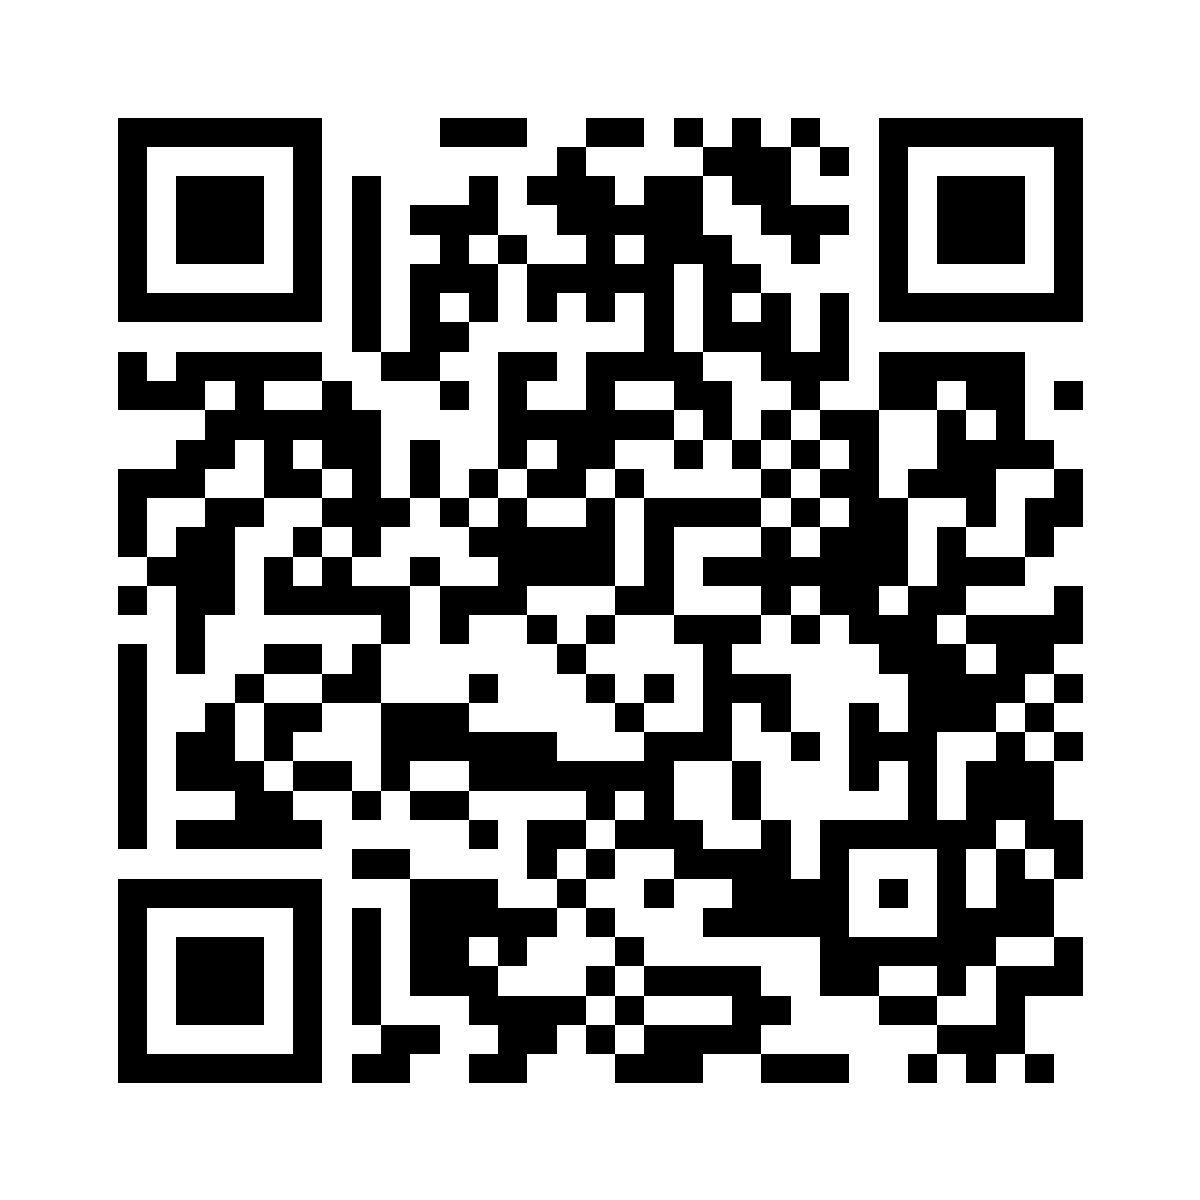
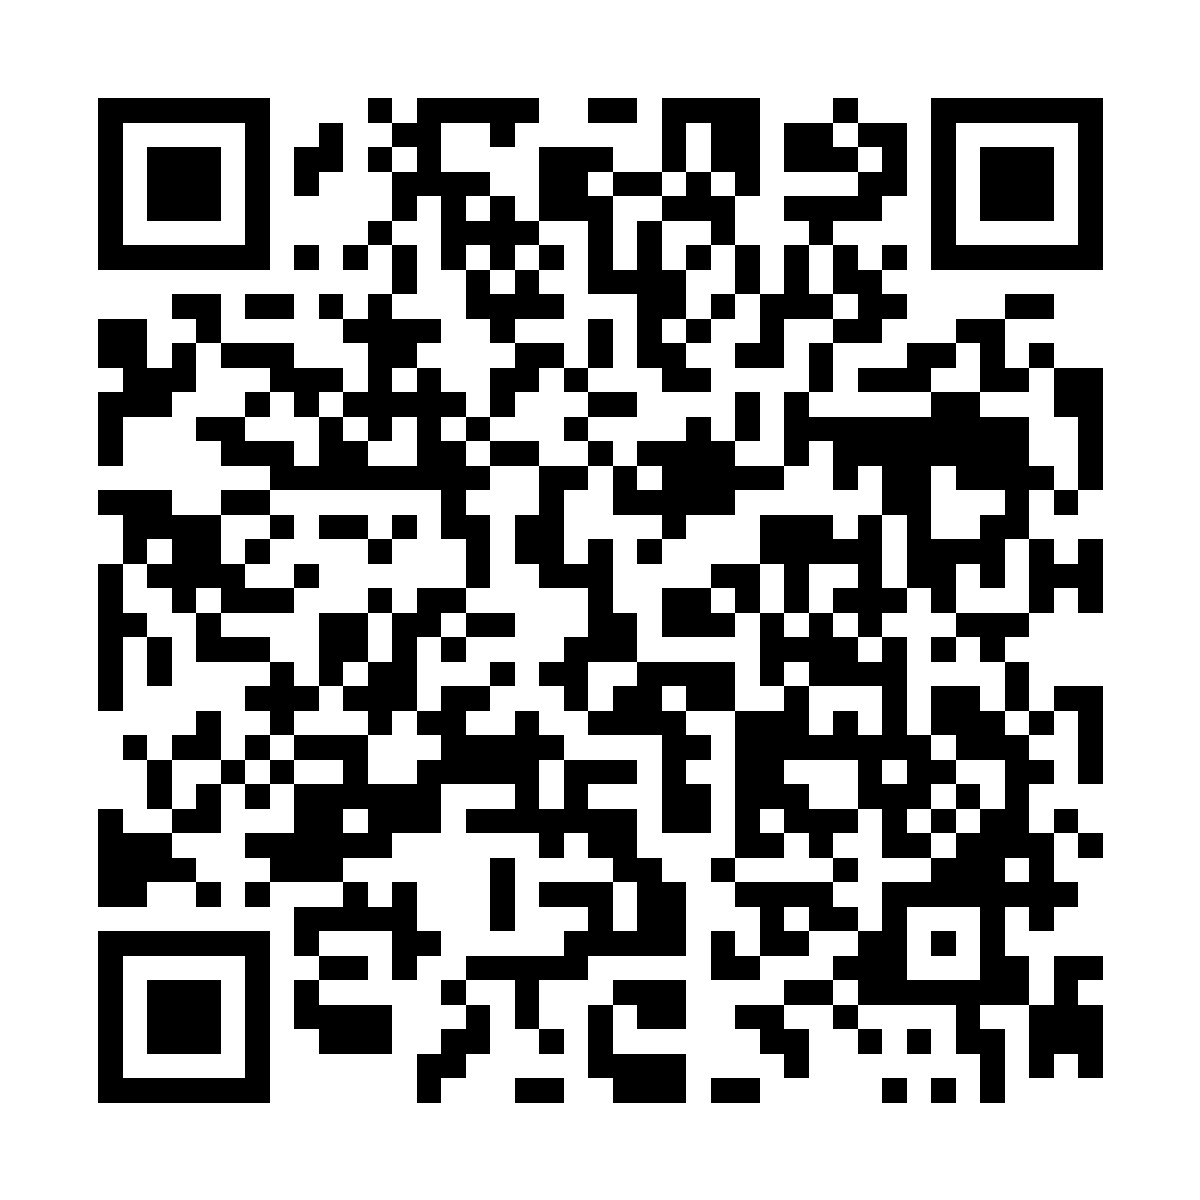
Point everything at the new domain theflightdeck.tech
The three printed QR codes in qr/ still encoded the old Netlify address
and would have sent booth visitors to the wrong site. Regenerated all
three for https://theflightdeck.tech, now at error-correction level H so
they survive scuffs and partial covering on a printed sign.

- qr/*.png regenerated (1200x1200, ECC H), decode verified
- index.html: QR_FALLBACK_BASE -> https://theflightdeck.tech
  (only used when opening the file from disk; on the live site the
  homepage QRs already derive from location.origin)
- qr-codes.html: default base URL and help text
- README: setup steps, short admin links, QR regeneration note, and the
  title/intro updated to Flight to Carrot Day 2026

No code changes were needed for portability: internal links are all
relative, manifest.json uses ./ paths, and sw.js scopes on
self.location.origin. Verified the Apps Script backend answers a browser
on a foreign origin (form-encoded POSTs are simple requests, so no CORS
preflight) - the backend needs no change for the new domain.

diff --git a/qr-codes.html b/qr-codes.html
@@ -71,7 +71,7 @@
     <h1>Tạo <span class="accent">3 mã QR</span> cho gian hàng</h1>
     <p class="lead">
       Nhập địa chỉ website sau khi bạn đã đưa trang lên mạng (ví dụ:
-      <em>https://hobbyhorizon.vn</em> hoặc link GitHub Pages / Netlify),
+      <em>https://theflightdeck.tech</em> — hoặc link Netlify/GitHub Pages nếu chưa gắn tên miền),
       sau đó nhấn "Tạo mã QR" và in trang này.
     </p>
   </section>
@@ -80,7 +80,7 @@
     <div class="form-card">
       <div class="form-group">
         <label for="base-url">Địa chỉ website của bạn (base URL)</label>
-        <input type="url" id="base-url" placeholder="https://theflightdeck2026.netlify.app" value="https://theflightdeck2026.netlify.app">
+        <input type="url" id="base-url" placeholder="https://theflightdeck.tech" value="https://theflightdeck.tech">
       </div>
       <div class="center btn-row">
         <button class="btn btn-primary" onclick="generateAll()">Tạo mã QR ⚡</button>

diff --git a/index.html b/index.html
@@ -210,7 +210,7 @@
        Khi trang chạy trên web (http/https), QR trỏ đến chính website đó.
        Khi mở file trực tiếp trên máy, QR dùng địa chỉ dự phòng bên dưới —
        đổi thành link thật của bạn sau khi đưa trang lên mạng. */
-    var QR_FALLBACK_BASE = "https://theflightdeck2026.netlify.app";
+    var QR_FALLBACK_BASE = "https://theflightdeck.tech";
 
     var homeQRs = [
       { id: "qr-home-experience", target: "experience.html#dang-ky" },

diff --git a/README.md b/README.md
@@ -1,6 +1,8 @@
-# The Flight Deck × Hobby Horizon 2026 (Website)
+# The Flight Deck × Flight to Carrot Day 2026 (Website)
 
-Website cho gian hàng **The Flight Deck** tại **Hobby Horizon 2026**: trang chủ hiển thị 3 mã QR, hệ thống hàng chờ trải nghiệm bay có kết nối Google Sheet, và trang quản lý cho nhân viên gian hàng.
+🌐 <https://theflightdeck.tech>
+
+Website cho gian hàng **The Flight Deck** tại **Flight to Carrot Day 2026**: trang chủ hiển thị 3 mã QR, hệ thống đặt slot bay 15 phút có kết nối Google Sheet, và trang quản lý cho nhân viên gian hàng.
 
 ## Cấu trúc trang
 
@@ -67,7 +69,7 @@ Website cho gian hàng **The Flight Deck** tại **Hobby Horizon 2026**: trang c
   khách có **5 phút** để có mặt — quá hạn, hệ thống **tự hủy lượt** và đẩy
   người kế tiếp lên.
 - Trang quản lý: mở `admin.html` — trên Netlify có đường dẫn ngắn
-  **`/admin`** (ví dụ `theflightdeck2026.netlify.app/admin`, cấu hình trong file
+  **`/admin`** (ví dụ `theflightdeck.tech/admin`, cấu hình trong file
   `_redirects`; các link ngắn khác: `/qr`, `/check`, `/bay`). Nhập PIN
   (đổi trong `config.js`). Còn có nút "🔐 Quản lý gian hàng" ở chân trang chủ.
   Có thể: gọi khách, xác nhận có mặt, bắt đầu / kết thúc phiên, hủy lượt, thêm khách
@@ -224,10 +226,10 @@ Nhấp đúp vào `index.html` — trang sẽ mở trong trình duyệt. Không 
 1. **Kết nối Google Sheet** (5 phút — xem mục bên dưới) → dán Web app URL vào
    `SCRIPT_URL` trong `config.js`. Đổi luôn `ADMIN_PIN`.
 2. **Đưa web lên mạng**: vào <https://app.netlify.com/drop> (đăng nhập miễn phí),
-   kéo thả **cả thư mục này** vào. Sau đó vào *Site configuration → Change site name*,
-   đặt tên **`theflightdeck2026`** → địa chỉ thành `https://theflightdeck2026.netlify.app`
-   (3 mã QR trong thư mục `qr/` đã trỏ sẵn về địa chỉ này — nếu đặt tên khác, cần tạo lại QR).
-3. **Chạy kiểm tra tự động**: mở `https://theflightdeck2026.netlify.app/system-check.html`
+   kéo thả **cả thư mục này** vào, rồi gắn tên miền **`theflightdeck.tech`** ở
+   *Domain management*. 3 mã QR trong `qr/` đã trỏ sẵn về tên miền này —
+   **đổi tên miền là phải tạo lại QR** (xem mục bên dưới).
+3. **Chạy kiểm tra tự động**: mở `https://theflightdeck.tech/system-check.html`
    → bấm **▶ Chạy kiểm tra**. Trang sẽ tự chạy đủ vòng đời: đăng ký → gọi → có mặt →
    bay → hoàn thành, và báo ✅/❌ từng bước. Xong, mở Google Sheet thấy dòng TEST là
    dữ liệu đã vào sheet thật. Xóa các dòng TEST trước sự kiện.
@@ -243,13 +245,16 @@ Nhấp đúp vào `index.html` — trang sẽ mở trong trình duyệt. Không 
 ## Cách tạo 3 mã QR (làm lại nếu đổi địa chỉ web)
 
 - Cách nhanh: mở `qr-codes.html`, nhập địa chỉ web, nhấn **Tạo mã QR** rồi **In trang này**.
-- 3 file PNG trong thư mục `qr/` được tạo sẵn cho `https://theflightdeck2026.netlify.app`:
+- 3 file PNG trong thư mục `qr/` được tạo sẵn cho **`https://theflightdeck.tech`**
+  (1200×1200, mức sửa lỗi **H** = chịu được xước/bẩn khi in dán ở gian hàng):
   `QR1-trai-nghiem-bay.png` · `QR2-khoa-hoc-workshop.png` · `QR3-doanh-nghiep.png`.
 
 ## Những chỗ cần thay trước khi dùng thật
 
 - **`config.js`** — dán `SCRIPT_URL` (bước trên) và đổi `ADMIN_PIN`.
-- **`QR_FALLBACK_BASE`** ở cuối `index.html` — đổi thành địa chỉ thật của website.
+- **`QR_FALLBACK_BASE`** ở cuối `index.html` — hiện là `https://theflightdeck.tech`.
+  Chỉ dùng khi mở file trực tiếp từ ổ đĩa; khi chạy trên web, mã QR trên trang chủ
+  tự lấy đúng tên miền đang mở nên không cần sửa gì.
 - **Email nhận form B2B/khảo sát workshop**: sửa `CONTACT_EMAIL` ở đầu `form-handler.js` (hiện là `theflightdeckcoffee@gmail.com`).
 
 ### Thông tin liên hệ đã điền thật (không còn là mẫu)
